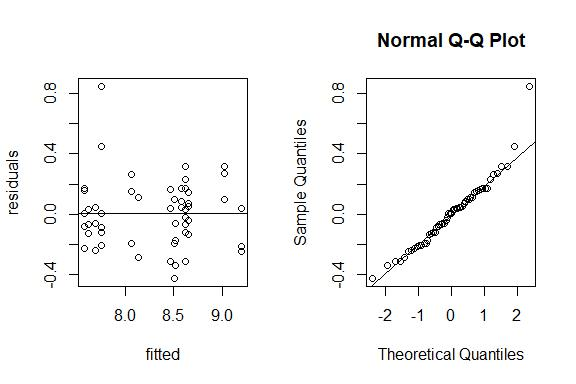
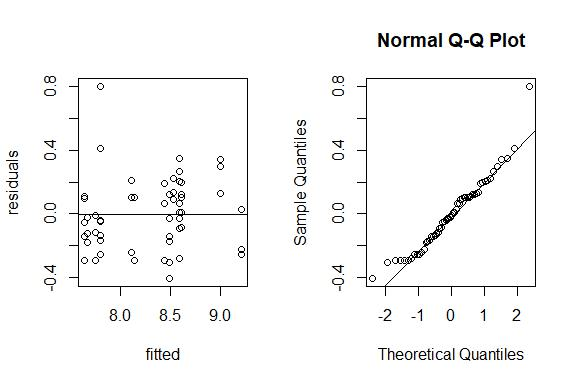
update

diff --git a/README.md b/README.md
@@ -44,45 +44,7 @@ publication](https://doi.org/10.1073/pnas.1910590116)
 
 ``` r
 library(SWDMr) # Package for model construction, objective function building
-```
 
-    ## Le chargement a nécessité le package : Rfast
-
-    ## Warning: le package 'Rfast' a été compilé avec la version R 4.2.3
-
-    ## Le chargement a nécessité le package : Rcpp
-
-    ## Le chargement a nécessité le package : RcppZiggurat
-
-    ## Warning: le package 'RcppZiggurat' a été compilé avec la version R 4.2.3
-
-    ## Le chargement a nécessité le package : RcppParallel
-
-    ## 
-    ## Attachement du package : 'RcppParallel'
-
-    ## L'objet suivant est masqué depuis 'package:Rcpp':
-    ## 
-    ##     LdFlags
-
-    ## 
-    ## Rfast: 2.1.0
-
-    ##  ___ __ __ __ __    __ __ __ __ __ _             _               __ __ __ __ __     __ __ __ __ __ __   
-    ## |  __ __ __ __  |  |  __ __ __ __ _/            / \             |  __ __ __ __ /   /__ __ _   _ __ __\  
-    ## | |           | |  | |                         / _ \            | |                        / /          
-    ## | |           | |  | |                        / / \ \           | |                       / /          
-    ## | |           | |  | |                       / /   \ \          | |                      / /          
-    ## | |__ __ __ __| |  | |__ __ __ __           / /     \ \         | |__ __ __ __ _        / /__/\          
-    ## |    __ __ __ __|  |  __ __ __ __|         / /__ _ __\ \        |_ __ __ __ _   |      / ___  /           
-    ## |   \              | |                    / _ _ _ _ _ _ \                     | |      \/  / /       
-    ## | |\ \             | |                   / /           \ \                    | |         / /          
-    ## | | \ \            | |                  / /             \ \                   | |        / /          
-    ## | |  \ \           | |                 / /               \ \                  | |       / /          
-    ## | |   \ \__ __ _   | |                / /                 \ \     _ __ __ __ _| |      / /          
-    ## |_|    \__ __ __\  |_|               /_/                   \_\   /_ __ __ __ ___|      \/             team
-
-``` r
 # External package
 library(optimx) # Package for parameter optimization
 ```
@@ -184,13 +146,13 @@ data(SWdf)
 head(SWdf)
 ```
 
-    ##         NREM         REM       Wake      Sleep LenW LenS Day Time Light Dark SD
-    ## 1 0.03273148 0.001296296 0.06597222 0.03402778 59.5 30.5   1  0.1     1    0  0
-    ## 2 0.03648148 0.002824074 0.06069444 0.03930556 55.0 35.0   1  0.2     1    0  0
-    ## 3 0.04069444 0.004351852 0.05495370 0.04504630 49.5 40.5   1  0.3     1    0  0
-    ## 4 0.04986111 0.002824074 0.04731481 0.05268519 42.5 47.5   1  0.4     1    0  0
-    ## 5 0.06240741 0.003611111 0.03398148 0.06601852 30.5 59.5   1  0.5     1    0  0
-    ## 6 0.06763889 0.009907407 0.02245370 0.07754630 20.5 69.5   1  0.6     1    0  0
+    ##        NREM        REM      Wake     Sleep Day Time Light Dark SD
+    ## 1 0.3273148 0.01296296 0.6597222 0.3402778   1  0.1     1    0  0
+    ## 2 0.3648148 0.02824074 0.6069444 0.3930556   1  0.2     1    0  0
+    ## 3 0.4069444 0.04351852 0.5495370 0.4504630   1  0.3     1    0  0
+    ## 4 0.4986111 0.02824074 0.4731481 0.5268519   1  0.4     1    0  0
+    ## 5 0.6240741 0.03611111 0.3398148 0.6601852   1  0.5     1    0  0
+    ## 6 0.6763889 0.09907407 0.2245370 0.7754630   1  0.6     1    0  0
 
 We then load phenotypes containing also time of sampling corresponding
 with the sleep-wake data.frame
@@ -230,7 +192,7 @@ swdmr
 
     ## This is a SWDMr object
     ## This object contains:  4 Genes Over 62 Time points
-    ## Your force data frame contain 1200 values with the following possible forces:NREM;REM;Wake;Sleep;LenW;LenS;Day;Time;Light;Dark;SD
+    ## Your force data frame contain 1200 values with the following possible forces:NREM;REM;Wake;Sleep;Day;Time;Light;Dark;SD
 
 Simulation goes up to T96 but some points in RNA expression data.frame
 goes up to T222
@@ -327,10 +289,10 @@ fits<-optimx(params,fn = objfun,method=c("nlminb"))
 fits
 ```
 
-    ##            omega  loggamma      Wake      Sleep      AmpSin  PhiSin     value
-    ## nlminb 0.2173784 -2.181641 0.1155323 -0.2281949 0.006037812 3.73187 0.3719629
+    ##            omega  loggamma       Wake      Sleep      AmpSin   PhiSin     value
+    ## nlminb 0.2173783 -2.181641 0.01155324 -0.0228195 0.006037809 3.731869 0.3719629
     ##        fevals gevals niter convcode kkt1 kkt2 xtime
-    ## nlminb     55    214    32        0 TRUE TRUE  0.06
+    ## nlminb     59    266    39        0 TRUE TRUE  0.12
 
 ## Visualize fit
 
@@ -571,13 +533,13 @@ data(SWdf)
 head(SWdf)
 ```
 
-    ##         NREM         REM       Wake      Sleep LenW LenS Day Time Light Dark SD
-    ## 1 0.03273148 0.001296296 0.06597222 0.03402778 59.5 30.5   1  0.1     1    0  0
-    ## 2 0.03648148 0.002824074 0.06069444 0.03930556 55.0 35.0   1  0.2     1    0  0
-    ## 3 0.04069444 0.004351852 0.05495370 0.04504630 49.5 40.5   1  0.3     1    0  0
-    ## 4 0.04986111 0.002824074 0.04731481 0.05268519 42.5 47.5   1  0.4     1    0  0
-    ## 5 0.06240741 0.003611111 0.03398148 0.06601852 30.5 59.5   1  0.5     1    0  0
-    ## 6 0.06763889 0.009907407 0.02245370 0.07754630 20.5 69.5   1  0.6     1    0  0
+    ##        NREM        REM      Wake     Sleep Day Time Light Dark SD
+    ## 1 0.3273148 0.01296296 0.6597222 0.3402778   1  0.1     1    0  0
+    ## 2 0.3648148 0.02824074 0.6069444 0.3930556   1  0.2     1    0  0
+    ## 3 0.4069444 0.04351852 0.5495370 0.4504630   1  0.3     1    0  0
+    ## 4 0.4986111 0.02824074 0.4731481 0.5268519   1  0.4     1    0  0
+    ## 5 0.6240741 0.03611111 0.3398148 0.6601852   1  0.5     1    0  0
+    ## 6 0.6763889 0.09907407 0.2245370 0.7754630   1  0.6     1    0  0
 
 We then load phenotypes containing also time of sampling corresponding
 with the sleep-wake data.frame
@@ -608,7 +570,7 @@ swdmr
 
     ## This is a SWDMr object
     ## This object contains:  4 Genes Over 62 Time points
-    ## Your force data frame contain 1200 values with the following possible forces:NREM;REM;Wake;Sleep;LenW;LenS;Day;Time;Light;Dark;SD
+    ## Your force data frame contain 1200 values with the following possible forces:NREM;REM;Wake;Sleep;Day;Time;Light;Dark;SD
 
 We then initiate a model for a process-S dynamics
 
@@ -695,10 +657,10 @@ fitsS<-optimx(paramsS,fn = objfun,method=c("Nelder-Mead"))
 fitsS
 ```
 
-    ##             AsympWake AsympSleep  TauWake TauSleep    value fevals gevals niter
-    ## Nelder-Mead  9.333525  -18.17969 3.518485 72.72382 2.670078    501     NA    NA
+    ##             AsympWake AsympSleep TauWake TauSleep    value fevals gevals niter
+    ## Nelder-Mead  9.420144   1.948633 43.2601 192.5619 2.753997    501     NA    NA
     ##             convcode  kkt1  kkt2 xtime
-    ## Nelder-Mead        1 FALSE FALSE   0.1
+    ## Nelder-Mead        1 FALSE FALSE  0.17
 
 ## Visualize fit
 
@@ -744,9 +706,9 @@ stats
 ```
 
     ##   Variable      RSS       NLL      BIC BIC_flat  BayesFactor       AIC  n k
-    ## 1   Homer1 2.670078 -5.750276 8.626206 97.54644 2.036032e+19 -1.500553 56 5
+    ## 1   Homer1 2.753997 -4.883802 10.35915 97.54644 8.560111e+18 0.2323964 56 5
     ##   ErrorVariance KendalTau
-    ## 1    0.04767996 0.7397206
+    ## 1    0.04917851 0.7343652
 
 *Here n=56 while dataset contains 62 points. Because fit was performed
 up to Time96 while last points reach Time 216 and 222. If these points
@@ -779,19 +741,18 @@ sessionInfo()
     ## [1] stats     graphics  grDevices utils     datasets  methods   base     
     ## 
     ## other attached packages:
-    ## [1] patchwork_1.1.2    ggplot2_3.4.1      optimx_2023-10.21  SWDMr_1.4         
-    ## [5] Rfast_2.1.0        RcppParallel_5.1.5 RcppZiggurat_0.1.6 Rcpp_1.0.9        
+    ## [1] patchwork_1.1.2   ggplot2_3.4.1     optimx_2023-10.21 SWDMr_1.4        
     ## 
     ## loaded via a namespace (and not attached):
-    ##  [1] pracma_2.4.2        highr_0.9           compiler_4.2.2     
-    ##  [4] pillar_1.9.0        nloptr_2.0.3        tools_4.2.2        
-    ##  [7] digest_0.6.30       evaluate_0.18       lifecycle_1.0.3    
-    ## [10] tibble_3.2.1        gtable_0.3.1        pkgconfig_2.0.3    
-    ## [13] rlang_1.1.1         cli_3.6.2           rstudioapi_0.14    
-    ## [16] yaml_2.3.6          parallel_4.2.2      xfun_0.34          
-    ## [19] fastmap_1.1.0       withr_2.5.0         dplyr_1.1.2        
-    ## [22] stringr_1.5.0       knitr_1.41          generics_0.1.3     
-    ## [25] vctrs_0.6.3         tidyselect_1.2.0    grid_4.2.2         
+    ##  [1] Rcpp_1.0.9          pracma_2.4.2        highr_0.9          
+    ##  [4] compiler_4.2.2      pillar_1.9.0        nloptr_2.0.3       
+    ##  [7] tools_4.2.2         digest_0.6.30       evaluate_0.18      
+    ## [10] lifecycle_1.0.3     tibble_3.2.1        gtable_0.3.1       
+    ## [13] pkgconfig_2.0.3     rlang_1.1.1         cli_3.6.2          
+    ## [16] rstudioapi_0.14     yaml_2.3.6          xfun_0.34          
+    ## [19] fastmap_1.1.0       withr_2.5.0         stringr_1.5.0      
+    ## [22] dplyr_1.1.2         knitr_1.41          generics_0.1.3     
+    ## [25] vctrs_0.6.3         grid_4.2.2          tidyselect_1.2.0   
     ## [28] glue_1.6.2          R6_2.5.1            fansi_1.0.4        
     ## [31] rmarkdown_2.18      farver_2.1.1        magrittr_2.0.3     
     ## [34] scales_1.2.1        htmltools_0.5.3     colorspace_2.1-0   
